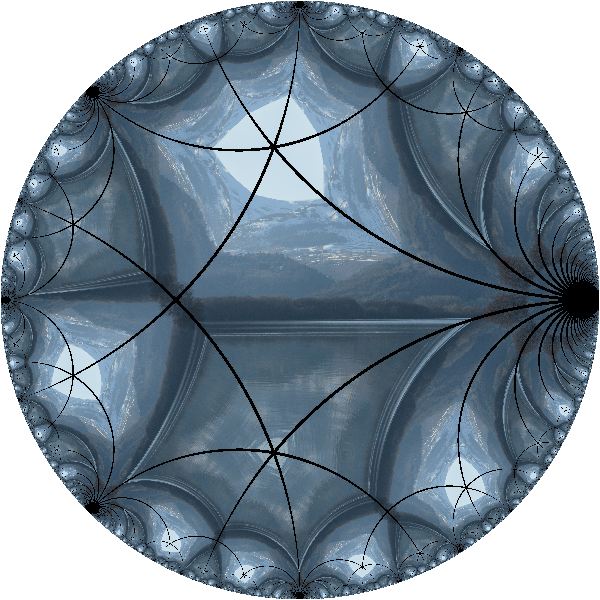
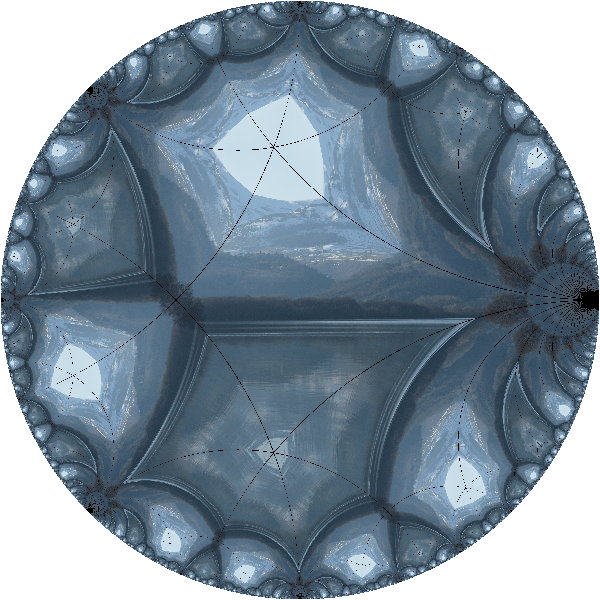
Added hyperb param to arctan

diff --git a/examples/example2.py b/examples/example2.py
@@ -1,0 +1,48 @@
+# -*- coding: utf-8 -*-
+"""
+Created on Thu Feb 28 05:05:15 2019
+
+@author: FC
+"""
+
+import confmap as cm
+import confmap.hyperbolic as hyp
+import numpy as np
+import matplotlib.pyplot as plt
+
+a=0.39797542678479064
+b=hyp._reflexion(-0.32196888361251824+0.23392408663890288j,-0.32196888361251824-0.23392408663890288j)(a)
+d=(np.arctanh(a)-np.arctanh(b))/np.pi
+thet=np.pi/2-np.arcsin(1/d/3)/2
+
+im = cm.HyperbolicTiling('./Reflets.jpg',2,'',800,450)
+
+tr=cm.ImageTransform(im,c=np.exp(-1j)*0.8,d=-0.1j-0.07)
+tr.arctan(hyperb=True,dec=np.pi/np.tan(thet))
+#tr.similitude(auto=False,c=np.exp(1j*thet)*np.cos(thet))
+tr.exp(auto=False,angle=False,c=2*np.pi*np.exp(1j*thet)*np.cos(thet))
+im.rotation(0,np.pi/10)
+im.translation(0.2j)
+im.translation(-0.2j,pre=False)
+im.rotation(0,-np.pi/10,pre=False)
+im.translation(c=-a,pre=False)
+
+im2=im.transform(c=0.9,sommets=(5,4),nbit=20,backcolor=[255,255,255], delta=0e-3)
+ind=(im2==[255,255,255])
+
+
+im = cm.HyperbolicTiling('./Reflets.jpg',3,'',800,450)
+
+tr=cm.ImageTransform(im,c=np.exp(-1j)*0.8,d=-0.1j-0.07)
+tr.arctan(hyperb=True,dec=np.pi/np.tan(thet))
+
+#tr.similitude(auto=False,c=np.exp(1j*thet)*np.cos(thet),d=(1/np.cos(thet)-1/np.exp(1j*thet))/np.sin(thet))
+tr.exp(auto=False,angle=False,c=2*np.pi*np.exp(1j*thet)*np.cos(thet),d=(1/np.cos(thet)-1/np.exp(1j*thet))/np.sin(thet))
+im.rotation(0,np.pi/10)
+im.translation(0.2j)
+im.translation(-0.2j,pre=False)
+im.rotation(0,-np.pi/10,pre=False)
+im.translation(c=-a,pre=False)
+
+im2[ind]=im.transform(c=0.9,sommets=(5,4),nbit=20,backcolor=[255,255,255], delta=0e-3)[ind]
+plt.imsave('./Reflets-4.jpg',im2)

diff --git a/setup.py b/setup.py
@@ -98,12 +98,13 @@ setup(
     description='Conformal mapping on images and videos',
     long_description=readme,
     long_description_content_type="text/markdown",
-    url='https://fcoulombeau.frama.io/git/transconf/',
+    url='https://github.com/FCoulombeau/confmap',
     license='MIT License',
     classifiers=[
         'Development Status :: 5 - Production/Stable',
         'Intended Audience :: Developers',
-        'Natural Language :: English, French',
+        'Natural Language :: English',
+        'Natural Language :: French',
         'License :: OSI Approved :: MIT License',
         'Programming Language :: Python',
         'Programming Language :: Python :: 3',
@@ -111,8 +112,7 @@ setup(
         'Programming Language :: Python :: 3.5',
         'Programming Language :: Python :: 3.6',
         'Topic :: Multimedia',
-        'Topic :: Multimedia :: Video',
-        'Topic :: Multimedia :: Image',
+        'Topic :: Multimedia :: Video'
     ],
     keywords='conformal mapping complex analysis',
     packages=find_packages(exclude='docs'),

diff --git a/confmap/functions.py b/confmap/functions.py
@@ -186,8 +186,11 @@ def _complex_arcsine(c=1.,d=0.):
 def _complex_arccos(c=1.,d=0.,mod=0):
     return (lambda u:np.cosh(u.real)*np.cos(u.imag)+1j*np.sin(u.imag)*np.sinh(u.real),c,d)
 
-def _complex_arctan(c=1.,d=0.):
-    return (lambda u:(np.tanh(u.real)+1j*np.tan(u.imag))/(1+np.tanh(u.real)*1j*np.tan(u.imag)),c,d)
+def _complex_arctan(c=1.,d=0.,hyperb=False,dec=0):
+    if hyperb:
+        return (lambda u:(np.tanh(u.real+((u.imag+np.pi/2)//np.pi-1/2)*dec)+1j*np.tan(u.imag))/(1+np.tanh(u.real+((u.imag+np.pi/2)//np.pi-1/2)*dec)*1j*np.tan(u.imag)),c,d)
+    else:
+        return (lambda u:(np.tanh(u.real)+1j*np.tan(u.imag))/(1+np.tanh(u.real)*1j*np.tan(u.imag)),c,d)
     
 def _complex_logarithm(c=1.,d=0.):
     return (lambda u:np.exp(u.real)*(np.cos(u.imag)+1j*np.sin(u.imag)),c,d)

diff --git a/confmap/imagetrans.py b/confmap/imagetrans.py
@@ -460,7 +460,7 @@ class ImageTransform(ComplexMapping):
         if auto:
             self.similitude(c=2/np.pi)
         
-    def arctan(self,auto=True,c=1.,d=0.):
+    def arctan(self,auto=True,c=1.,d=0.,hyperb=False,dec=0):
         """Mapping z->atan(z)
         If auto==True, complex number d is expressed in percent of the 
         input shape before transformation (which is the output shape
@@ -472,7 +472,7 @@ class ImageTransform(ComplexMapping):
                 d=d.real*self._input_scaling+1j*d.imag
             else:
                 d=d.real*self._output_scaling+1j*d.imag
-        self.nouvtrans(*_complex_arctan(c,d))
+        self.nouvtrans(*_complex_arctan(c,d,hyperb,dec))
         if auto:
             self.similitude(c=2/np.pi)
         

diff --git a/examples/example0.py b/examples/example0.py
@@ -1,0 +1,13 @@
+# -*- coding: utf-8 -*-
+"""
+Created on Thu Feb 28 05:05:15 2019
+
+@author: FC
+"""
+
+import confmap as cm
+import numpy as np
+
+im = cm.HyperbolicTiling('./Reflets.jpg',0,'',600,600)
+
+im.transform(sommets=(np.inf,6,4,6),nbit=20,backcolor=[255,255,255], delta=1e-3)

diff --git a/examples/example1.py b/examples/example1.py
@@ -1,0 +1,13 @@
+# -*- coding: utf-8 -*-
+"""
+Created on Thu Feb 28 05:05:15 2019
+
+@author: FC
+"""
+
+import confmap as cm
+import numpy as np
+
+im = cm.HyperbolicTiling('./Reflets.jpg',1,'',600,600)
+
+im.transform(sommets=(6,4),nbit=20,backcolor=[255,255,255], delta=1e-3)

diff --git a/README.rst b/README.rst
@@ -44,12 +44,12 @@ ConfMap depends on the Python modules Numpy_, `Matplotlib`_ and moviepy_ which w
 
 .. code:: bash
 
-    $ (sudo) pip install confmap
+    $ (sudo) pip install moviepy
 
 Maintainers
 -----------
 
-- `François Coulombeau`_ (owner)
+- Oioi_ (owner)
 
 
 .. ConfMap links
@@ -70,4 +70,4 @@ Maintainers
 .. _`Sphinx`: http://www.sphinx-doc.org/en/master/setuptools.html
 
 .. People
-.. _`François Coulombeau`: https://github.com/FCoulombeau
+.. _Oioi: https://github.com/FCoulombeau
